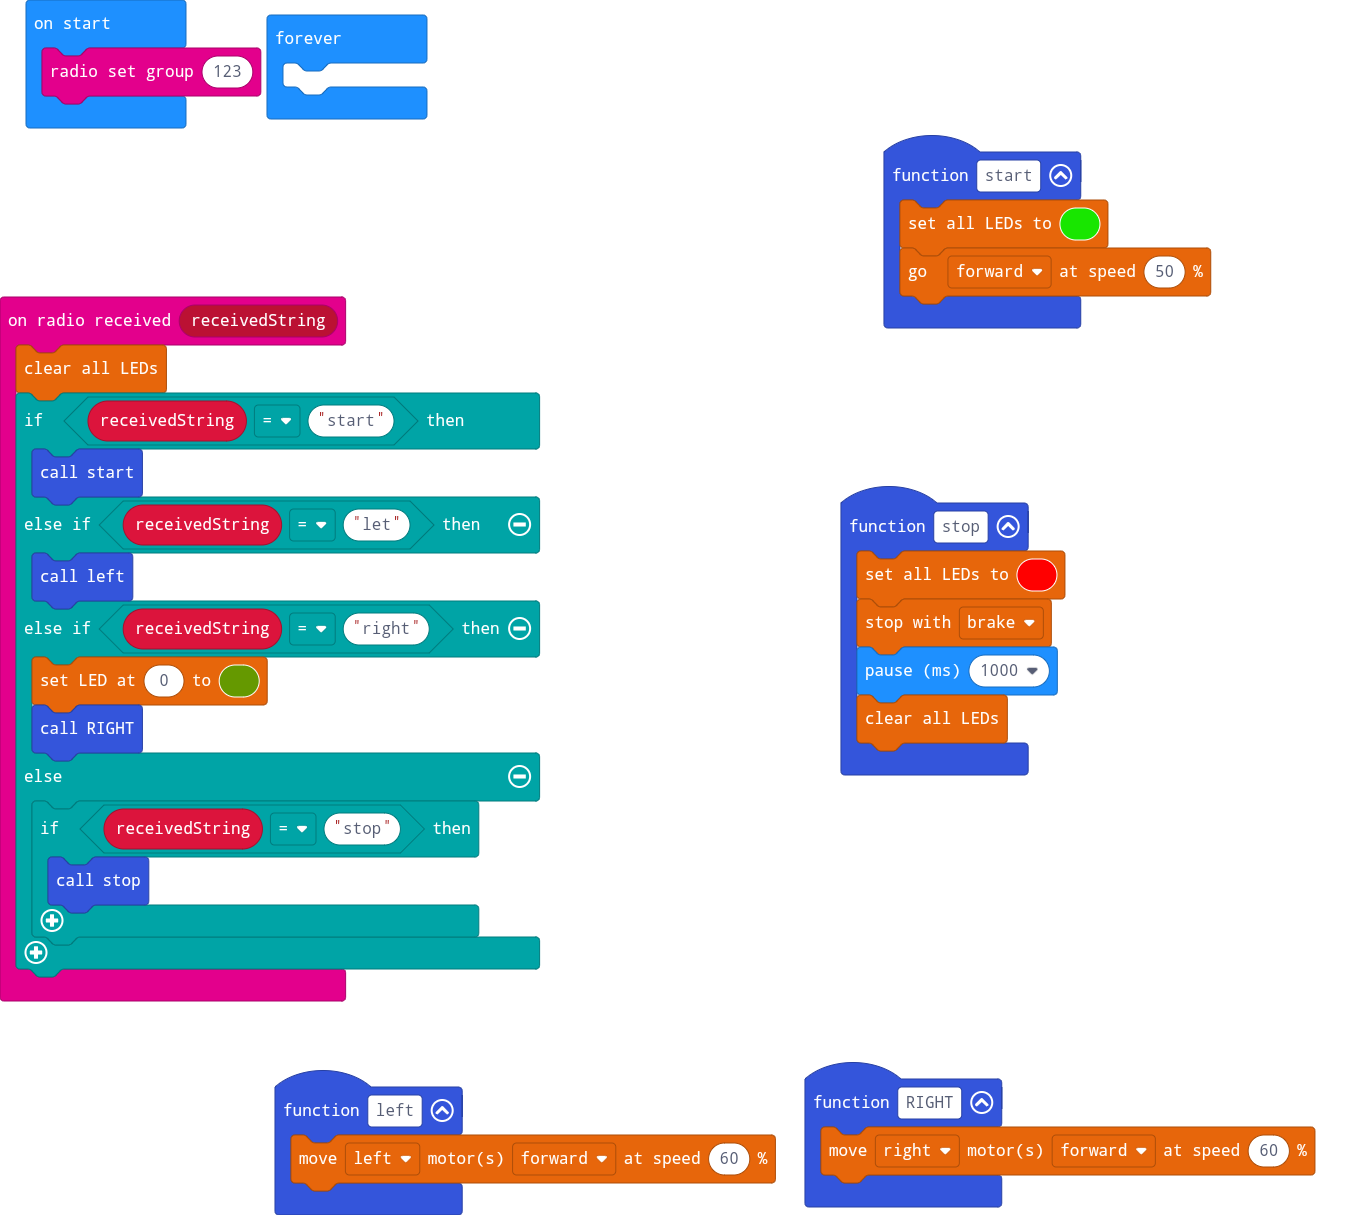
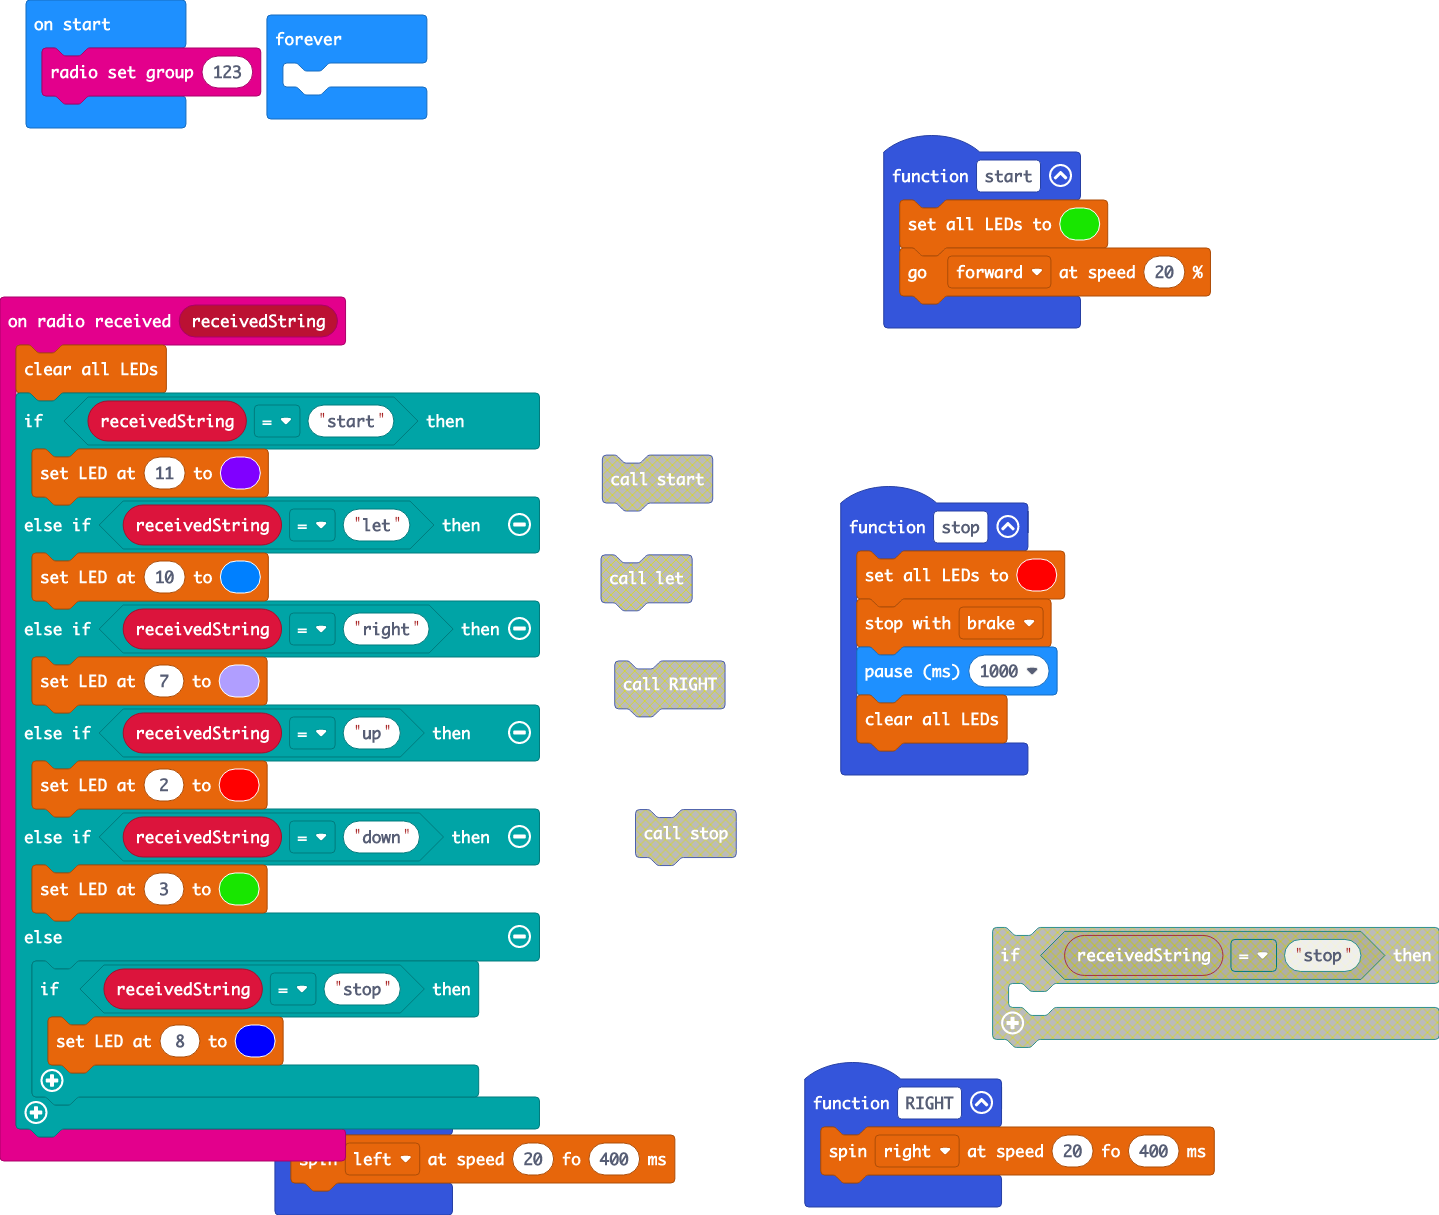
change led

diff --git a/main.ts b/main.ts
@@ -1,6 +1,3 @@
-function left () {
-    bitbot.move(BBMotor.Left, BBDirection.Forward, 60)
-}
 function stop () {
     bitbot.setLedColor(0xFF0000)
     bitbot.stop(BBStopMode.Brake)
@@ -8,26 +5,32 @@ function stop () {
     bitbot.ledClear()
 }
 function RIGHT () {
-    bitbot.move(BBMotor.Right, BBDirection.Forward, 60)
+    bitbot.driveTurnMilliseconds(BBRobotDirection.Right, 20, 400)
+}
+function _let () {
+    bitbot.driveTurnMilliseconds(BBRobotDirection.Left, 20, 400)
 }
 radio.onReceivedString(function (receivedString) {
     bitbot.ledClear()
     if (receivedString == "start") {
-        start()
+        bitbot.setPixelColor(11, 0x8000FF)
     } else if (receivedString == "let") {
-        left()
+        bitbot.setPixelColor(10, 0x0080FF)
     } else if (receivedString == "right") {
-        bitbot.setPixelColor(0, 0x659900)
-        RIGHT()
+        bitbot.setPixelColor(7, 0xB09EFF)
+    } else if (receivedString == "up") {
+        bitbot.setPixelColor(2, 0xFF0000)
+    } else if (receivedString == "down") {
+        bitbot.setPixelColor(3, 0x18E600)
     } else {
         if (receivedString == "stop") {
-            stop()
+            bitbot.setPixelColor(8, 0x0000FF)
         }
     }
 })
 function start () {
     bitbot.setLedColor(0x18E600)
-    bitbot.go(BBDirection.Forward, 50)
+    bitbot.go(BBDirection.Forward, 20)
 }
 radio.setGroup(123)
 basic.forever(function () {
